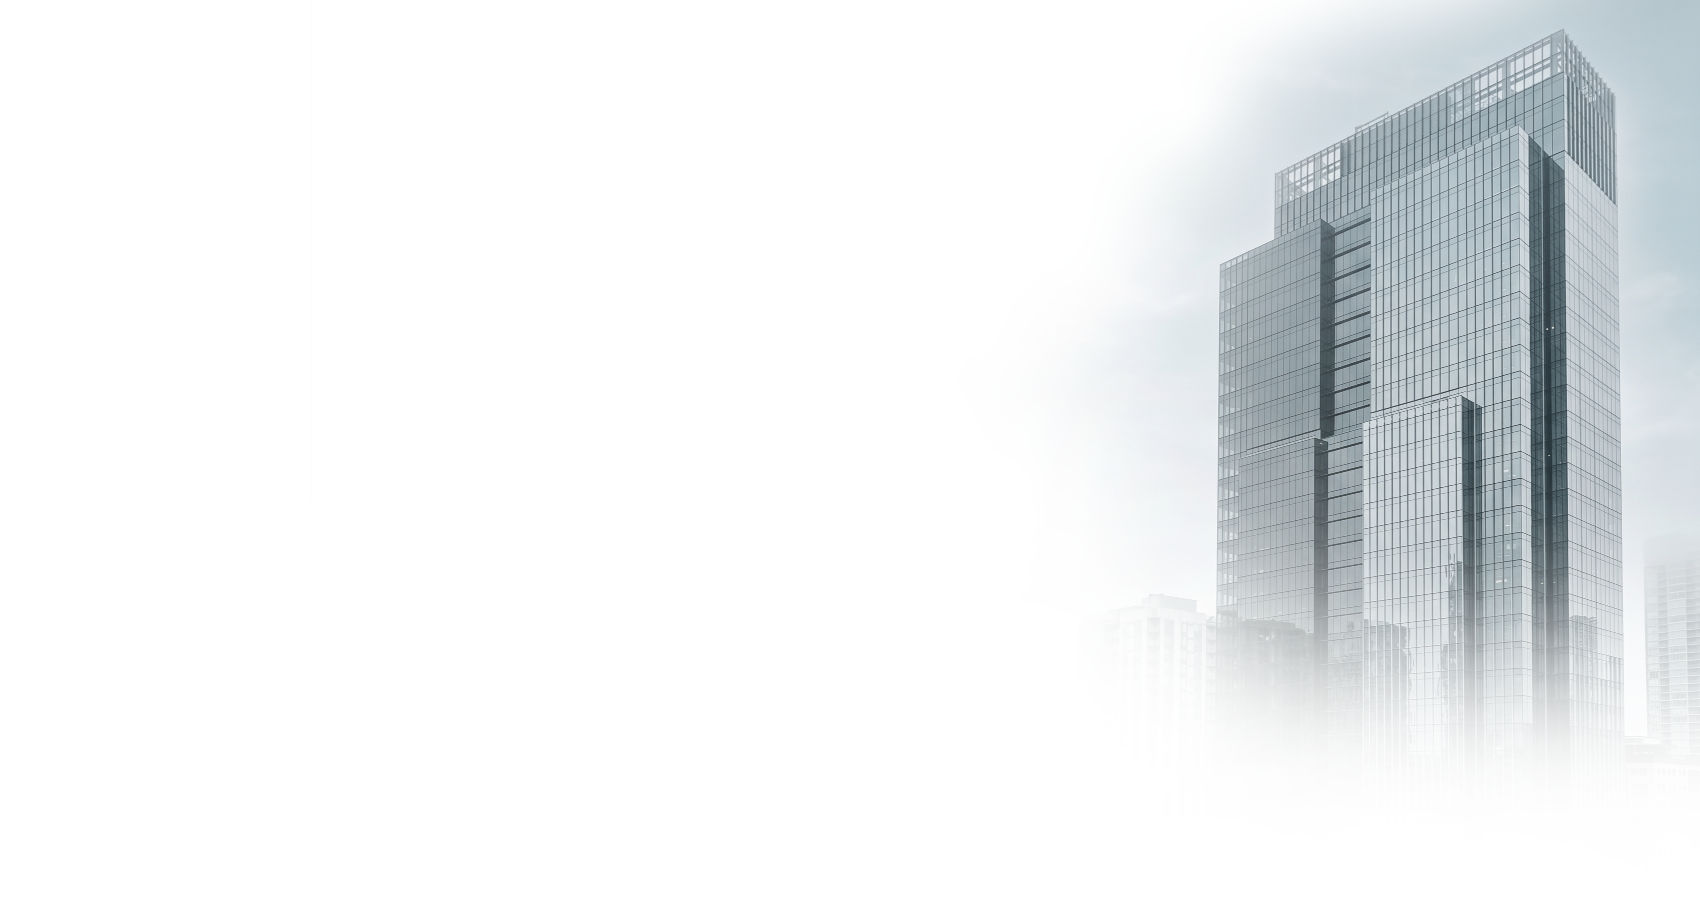
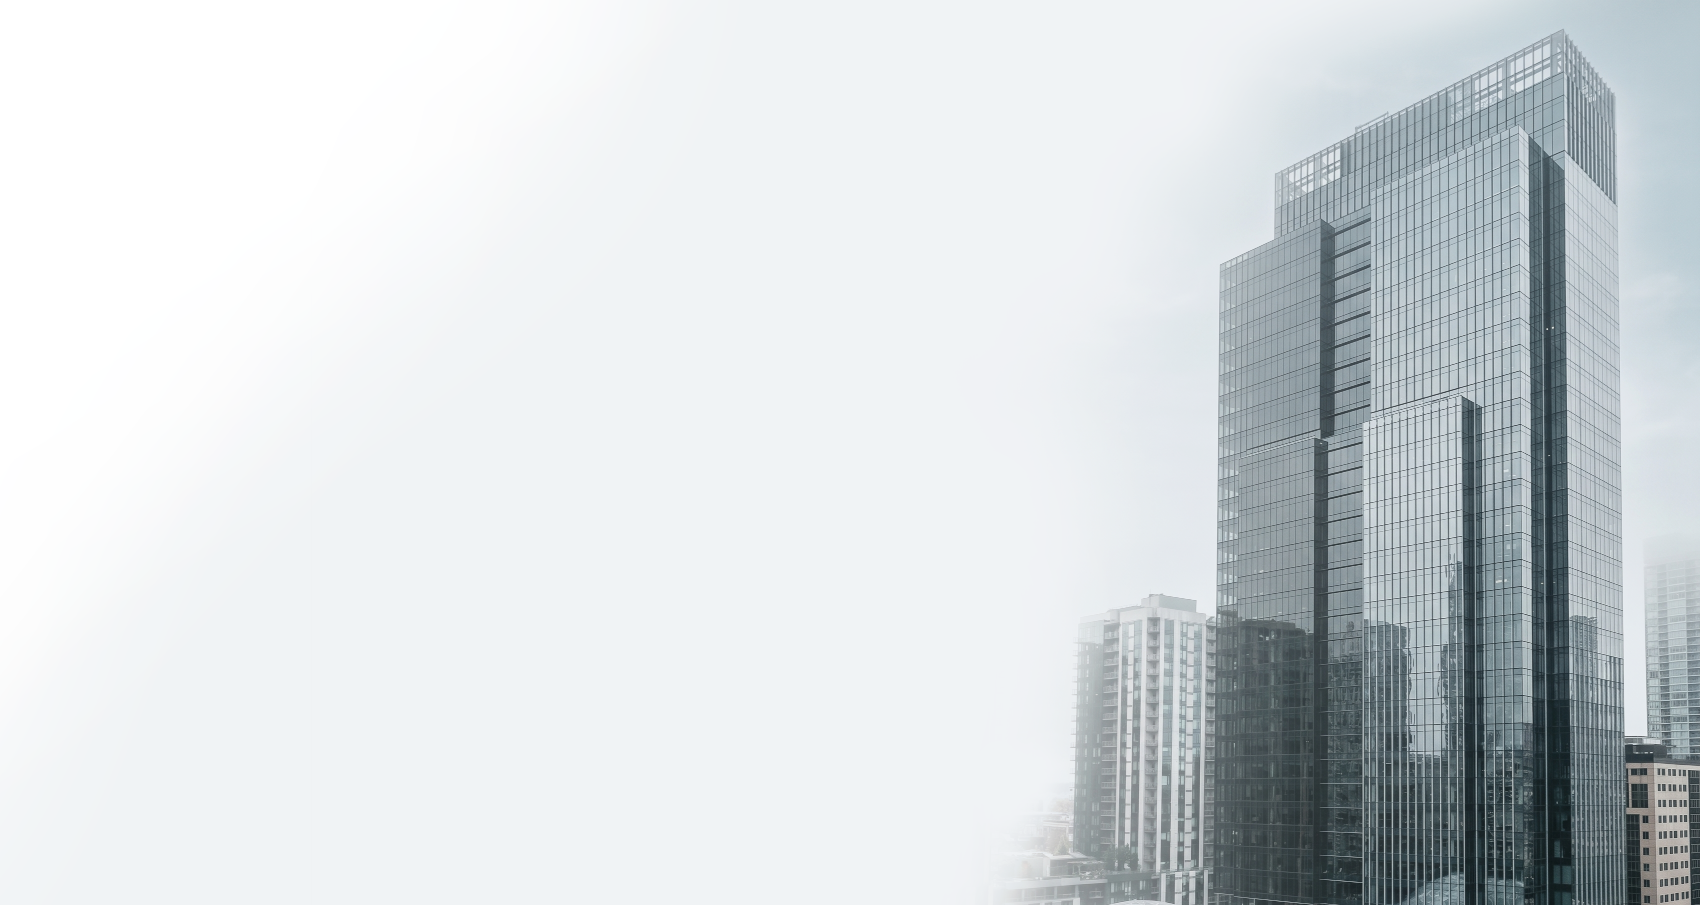
Update layout background color, features section background, and remove job sites FAQ item

Changed region(s): [[0.5612, 0.5569, 1.0, 1.0]]

diff --git a/src/app/globals.css b/src/app/globals.css
@@ -1031,10 +1031,15 @@ body.light-theme .sync-overlay-content {
   min-height: 100vh;
   display: flex;
   flex-direction: column;
+  background-color: #F0F3F5;
   background-image: url(/background.png);
   background-size: auto;
   background-repeat: no-repeat;
   background-position: top right;
+}
+
+#features {
+  background-color: #ffffff;
 }
 
 @media (max-width: 942px) {

diff --git a/src/components/landing/Comparison.tsx b/src/components/landing/Comparison.tsx
@@ -11,7 +11,7 @@ export default function Comparison() {
   ];
 
   return (
-    <section id="features" style={{ padding: '6rem var(--section-px)' }}>
+    <section id="features" style={{ padding: '6rem var(--section-px)', background: '#ffffff' }}>
       <div style={{ maxWidth: '1200px', margin: '0 auto' }}>
         <div style={{ textAlign: 'center', marginBottom: '4rem' }}>
           <h2 style={{ fontSize: '2.5rem', color: 'var(--text-primary)', marginBottom: '1rem' }}>Why It's Different</h2>

diff --git a/src/components/landing/FAQ.tsx b/src/components/landing/FAQ.tsx
@@ -9,7 +9,6 @@ export default function FAQ() {
     { q: "Will employers know?", a: "No. The resumes and cover letters are generated in your own voice and formatted professionally using standard industry templates." },
     { q: "How does Auto Apply work?", a: "For supported job boards, our agent can navigate the application form and automatically fill in your details, resume, and answers to common screening questions." },
     { q: "Can I review applications first?", a: "Absolutely. You can set the agent to draft applications and wait for your manual approval before submitting." },
-    { q: "Which job sites are supported?", a: "We currently support major platforms including LinkedIn, Indeed, Glassdoor, and standard Workday/Greenhouse/Lever portals." },
     { q: "Can I disable Auto Apply?", a: "Yes, you have full control over the automation settings and can pause or disable auto-apply at any time." }
   ];
 